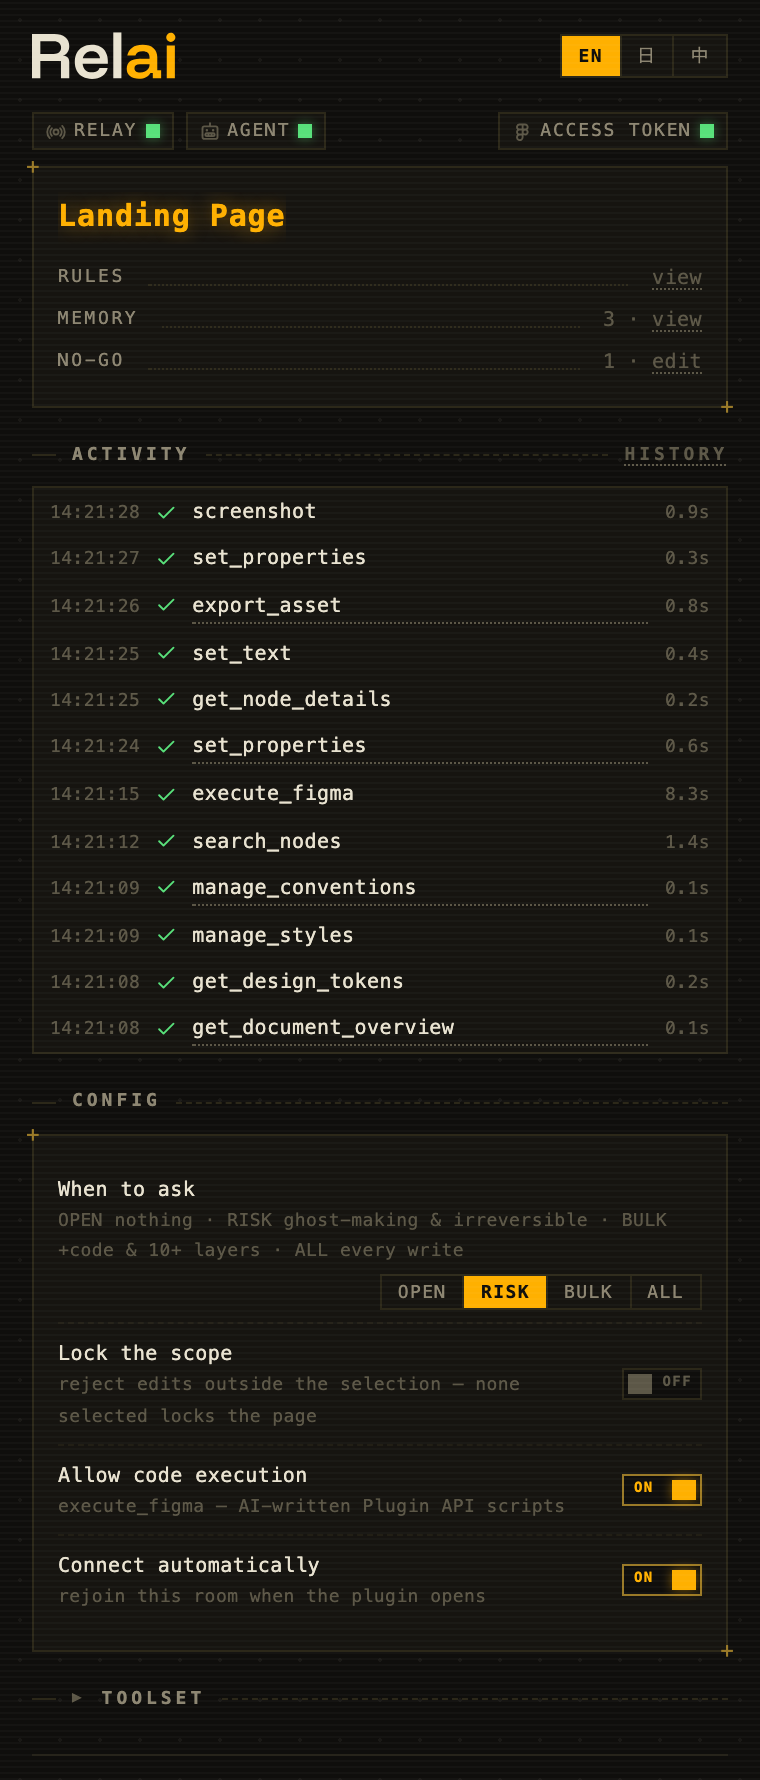
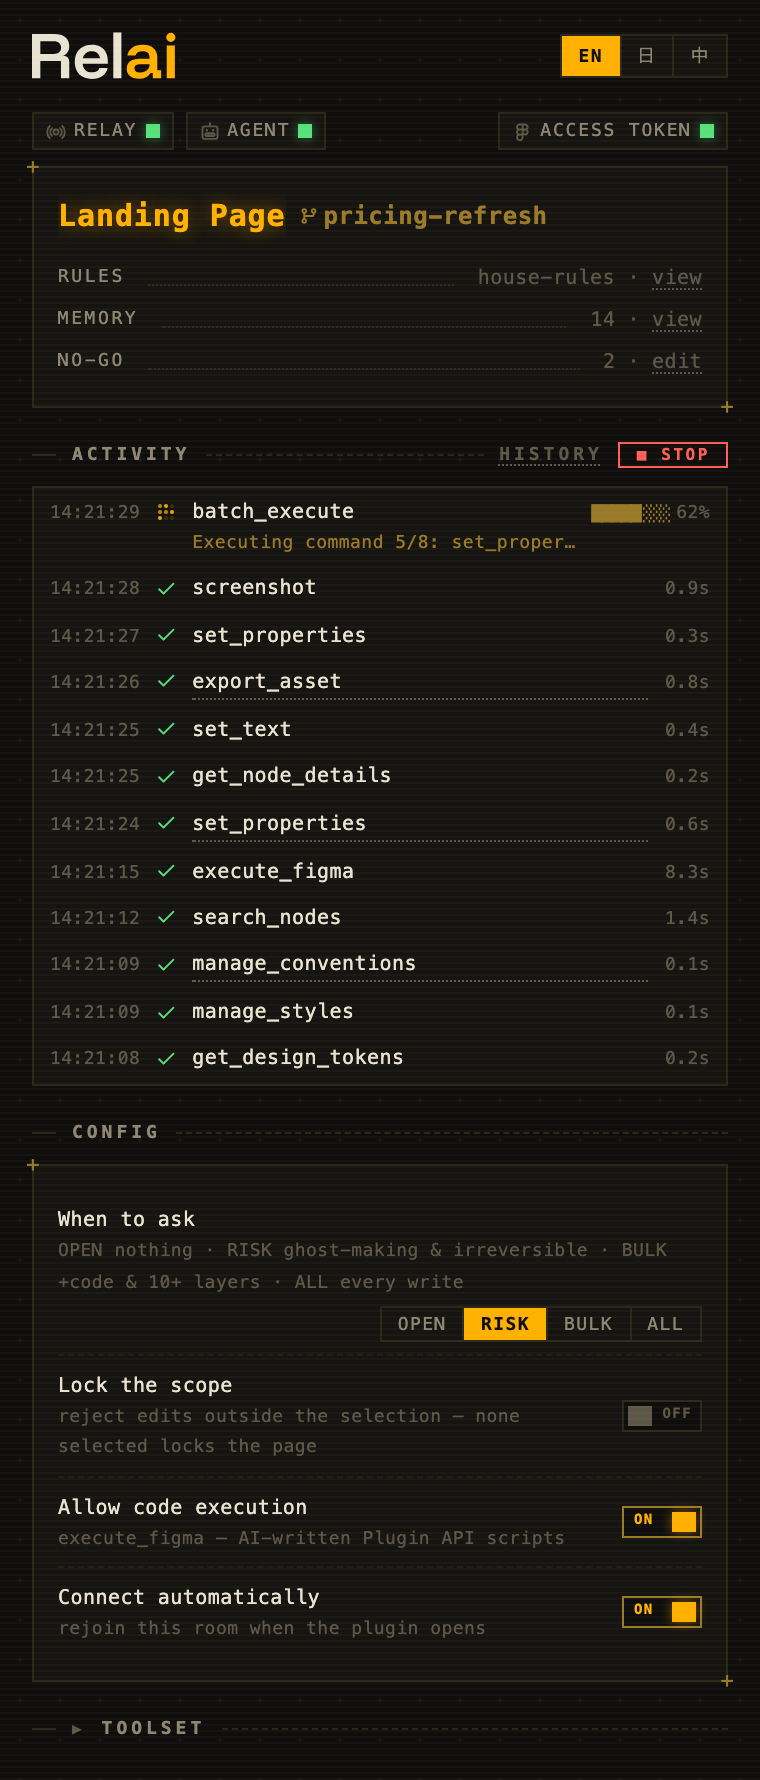
The idle mark leads, and the shots show a panel with a history
Every feed row puts its mark first; the empty state put its cursor last,
the one line in the column facing the other way.

The screenshots were re-rendered and came back byte-identical, which is
its own finding: the seed showed none of what the panel had learned to
say. It now carries the lineage line, the kit the rules came from, law
counts belonging to a file that has been worked, and a live top row with
a real progress message — batch_execute, because that handler actually
reports progress.

diff --git a/packages/figma-plugin/ui.html b/packages/figma-plugin/ui.html
@@ -478,6 +478,8 @@
       font-size: 10px; color: var(--faint);
       display: flex; align-items: center; justify-content: center; gap: 6px;
     }
+    /* The mark leads, as it does on every other row of the feed. Trailing the
+       words made this the one line in the column whose mark was on the right. */
     .feed-empty .cursor { flex-shrink: 0; color: var(--amber-dim); line-height: 0; }
     .feed-entry {
       display: flex; align-items: baseline; gap: var(--sp-8);
@@ -974,7 +976,7 @@
     <!-- Activity feed -->
     <div class="rule"><span data-i18n="activity">Activity</span><span class="feed-head-extra" style="margin-left:auto"><span class="view-link" onclick="openHistModal()" data-i18n="history">history</span><button class="stop-btn" id="stopBtn" onclick="stopAll()">&#9632; <span data-i18n="stop">STOP</span></button></span></div>
     <div class="feed" id="feed">
-      <div class="feed-row in" id="feedEmptyRow"><div class="feed-clip"><div class="feed-empty" id="feedEmpty"><span data-i18n="feed_empty">awaiting commands</span> <span class="cursor"><span class="pulsor" role="status" aria-label="Loading"><span class="c pulsor-18cxmaf" style="background:currentColor;animation-delay:-625ms"></span><span class="c pulsor-18cxmaf" style="background:currentColor;animation-delay:-1250ms"></span><span class="c pulsor-18cxmaf" style="background:currentColor;animation-delay:-625ms"></span><span class="c pulsor-18cxmaf" style="background:currentColor;animation-delay:-1250ms"></span><span class="c pulsor-18cxmaf" style="background:currentColor;animation-delay:-1875ms"></span><span class="c pulsor-18cxmaf" style="background:currentColor;animation-delay:-1250ms"></span><span class="c pulsor-18cxmaf" style="background:currentColor;animation-delay:-1875ms"></span><span class="c pulsor-18cxmaf" style="background:currentColor;animation-delay:0ms"></span><span class="c pulsor-18cxmaf" style="background:currentColor;animation-delay:-1875ms"></span></span></span></div></div></div>
+      <div class="feed-row in" id="feedEmptyRow"><div class="feed-clip"><div class="feed-empty" id="feedEmpty"><span class="cursor"><span class="pulsor" role="status" aria-label="Loading"><span class="c pulsor-18cxmaf" style="background:currentColor;animation-delay:-625ms"></span><span class="c pulsor-18cxmaf" style="background:currentColor;animation-delay:-1250ms"></span><span class="c pulsor-18cxmaf" style="background:currentColor;animation-delay:-625ms"></span><span class="c pulsor-18cxmaf" style="background:currentColor;animation-delay:-1250ms"></span><span class="c pulsor-18cxmaf" style="background:currentColor;animation-delay:-1875ms"></span><span class="c pulsor-18cxmaf" style="background:currentColor;animation-delay:-1250ms"></span><span class="c pulsor-18cxmaf" style="background:currentColor;animation-delay:-1875ms"></span><span class="c pulsor-18cxmaf" style="background:currentColor;animation-delay:0ms"></span><span class="c pulsor-18cxmaf" style="background:currentColor;animation-delay:-1875ms"></span></span></span><span data-i18n="feed_empty">awaiting commands</span></div></div></div>
     </div>
 
     <!-- Settings -->
